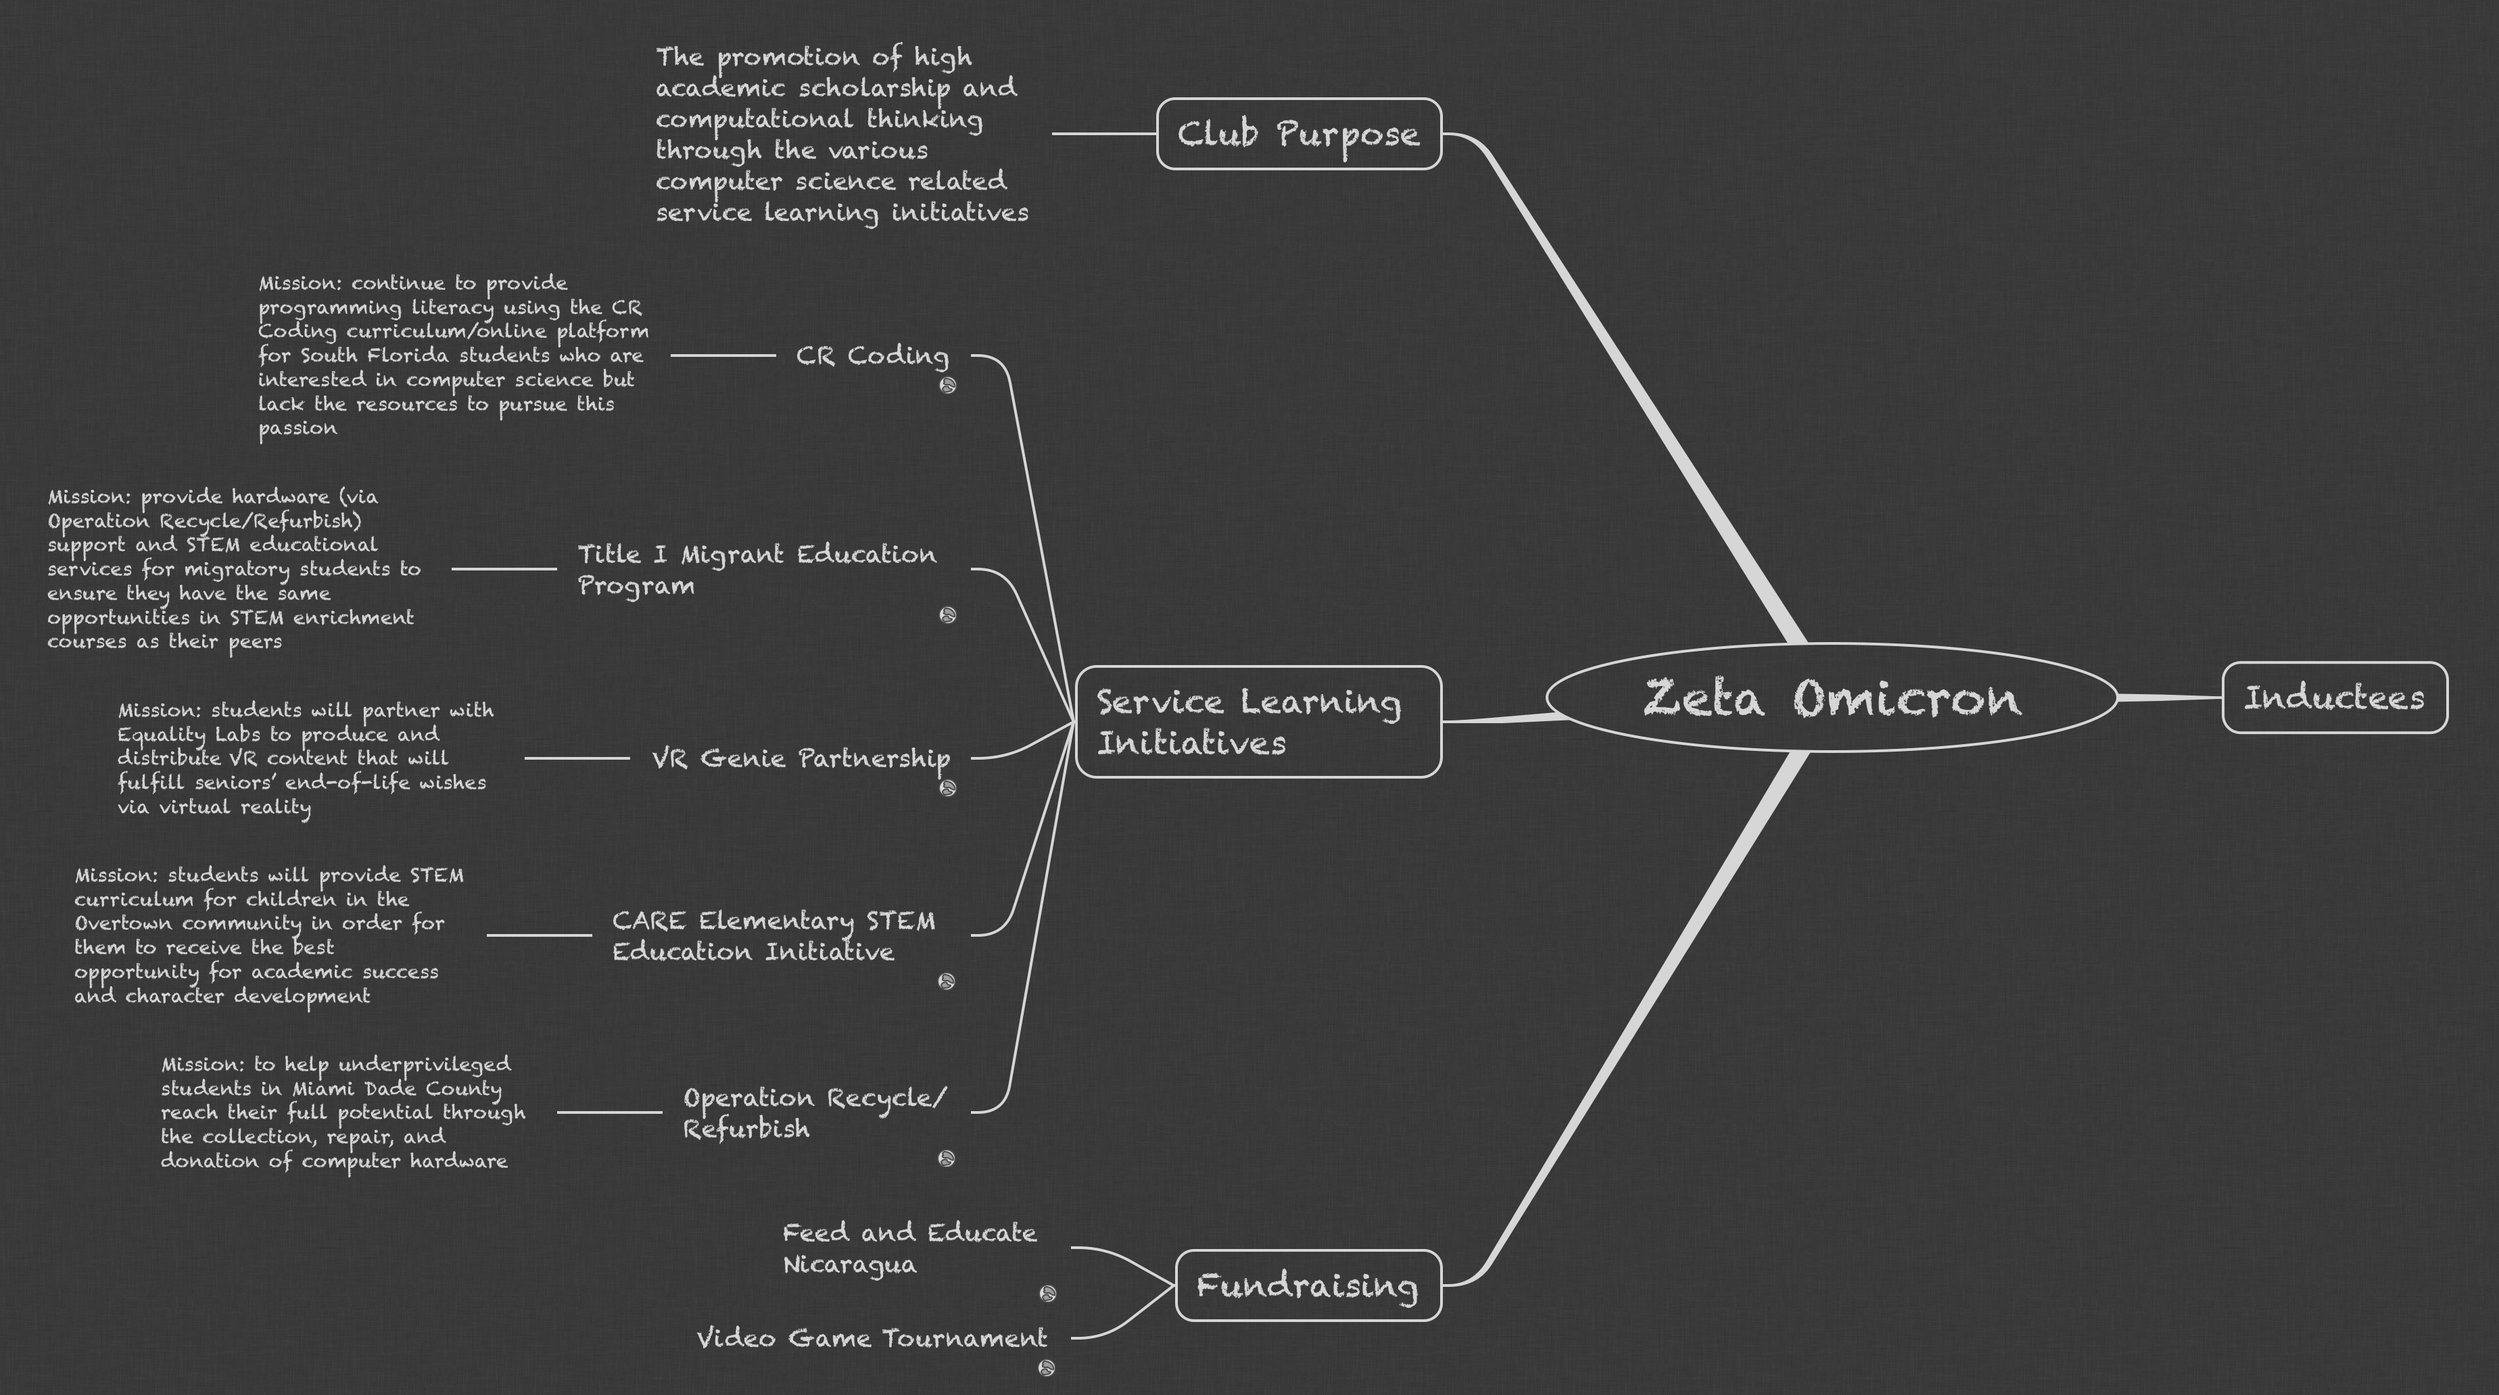
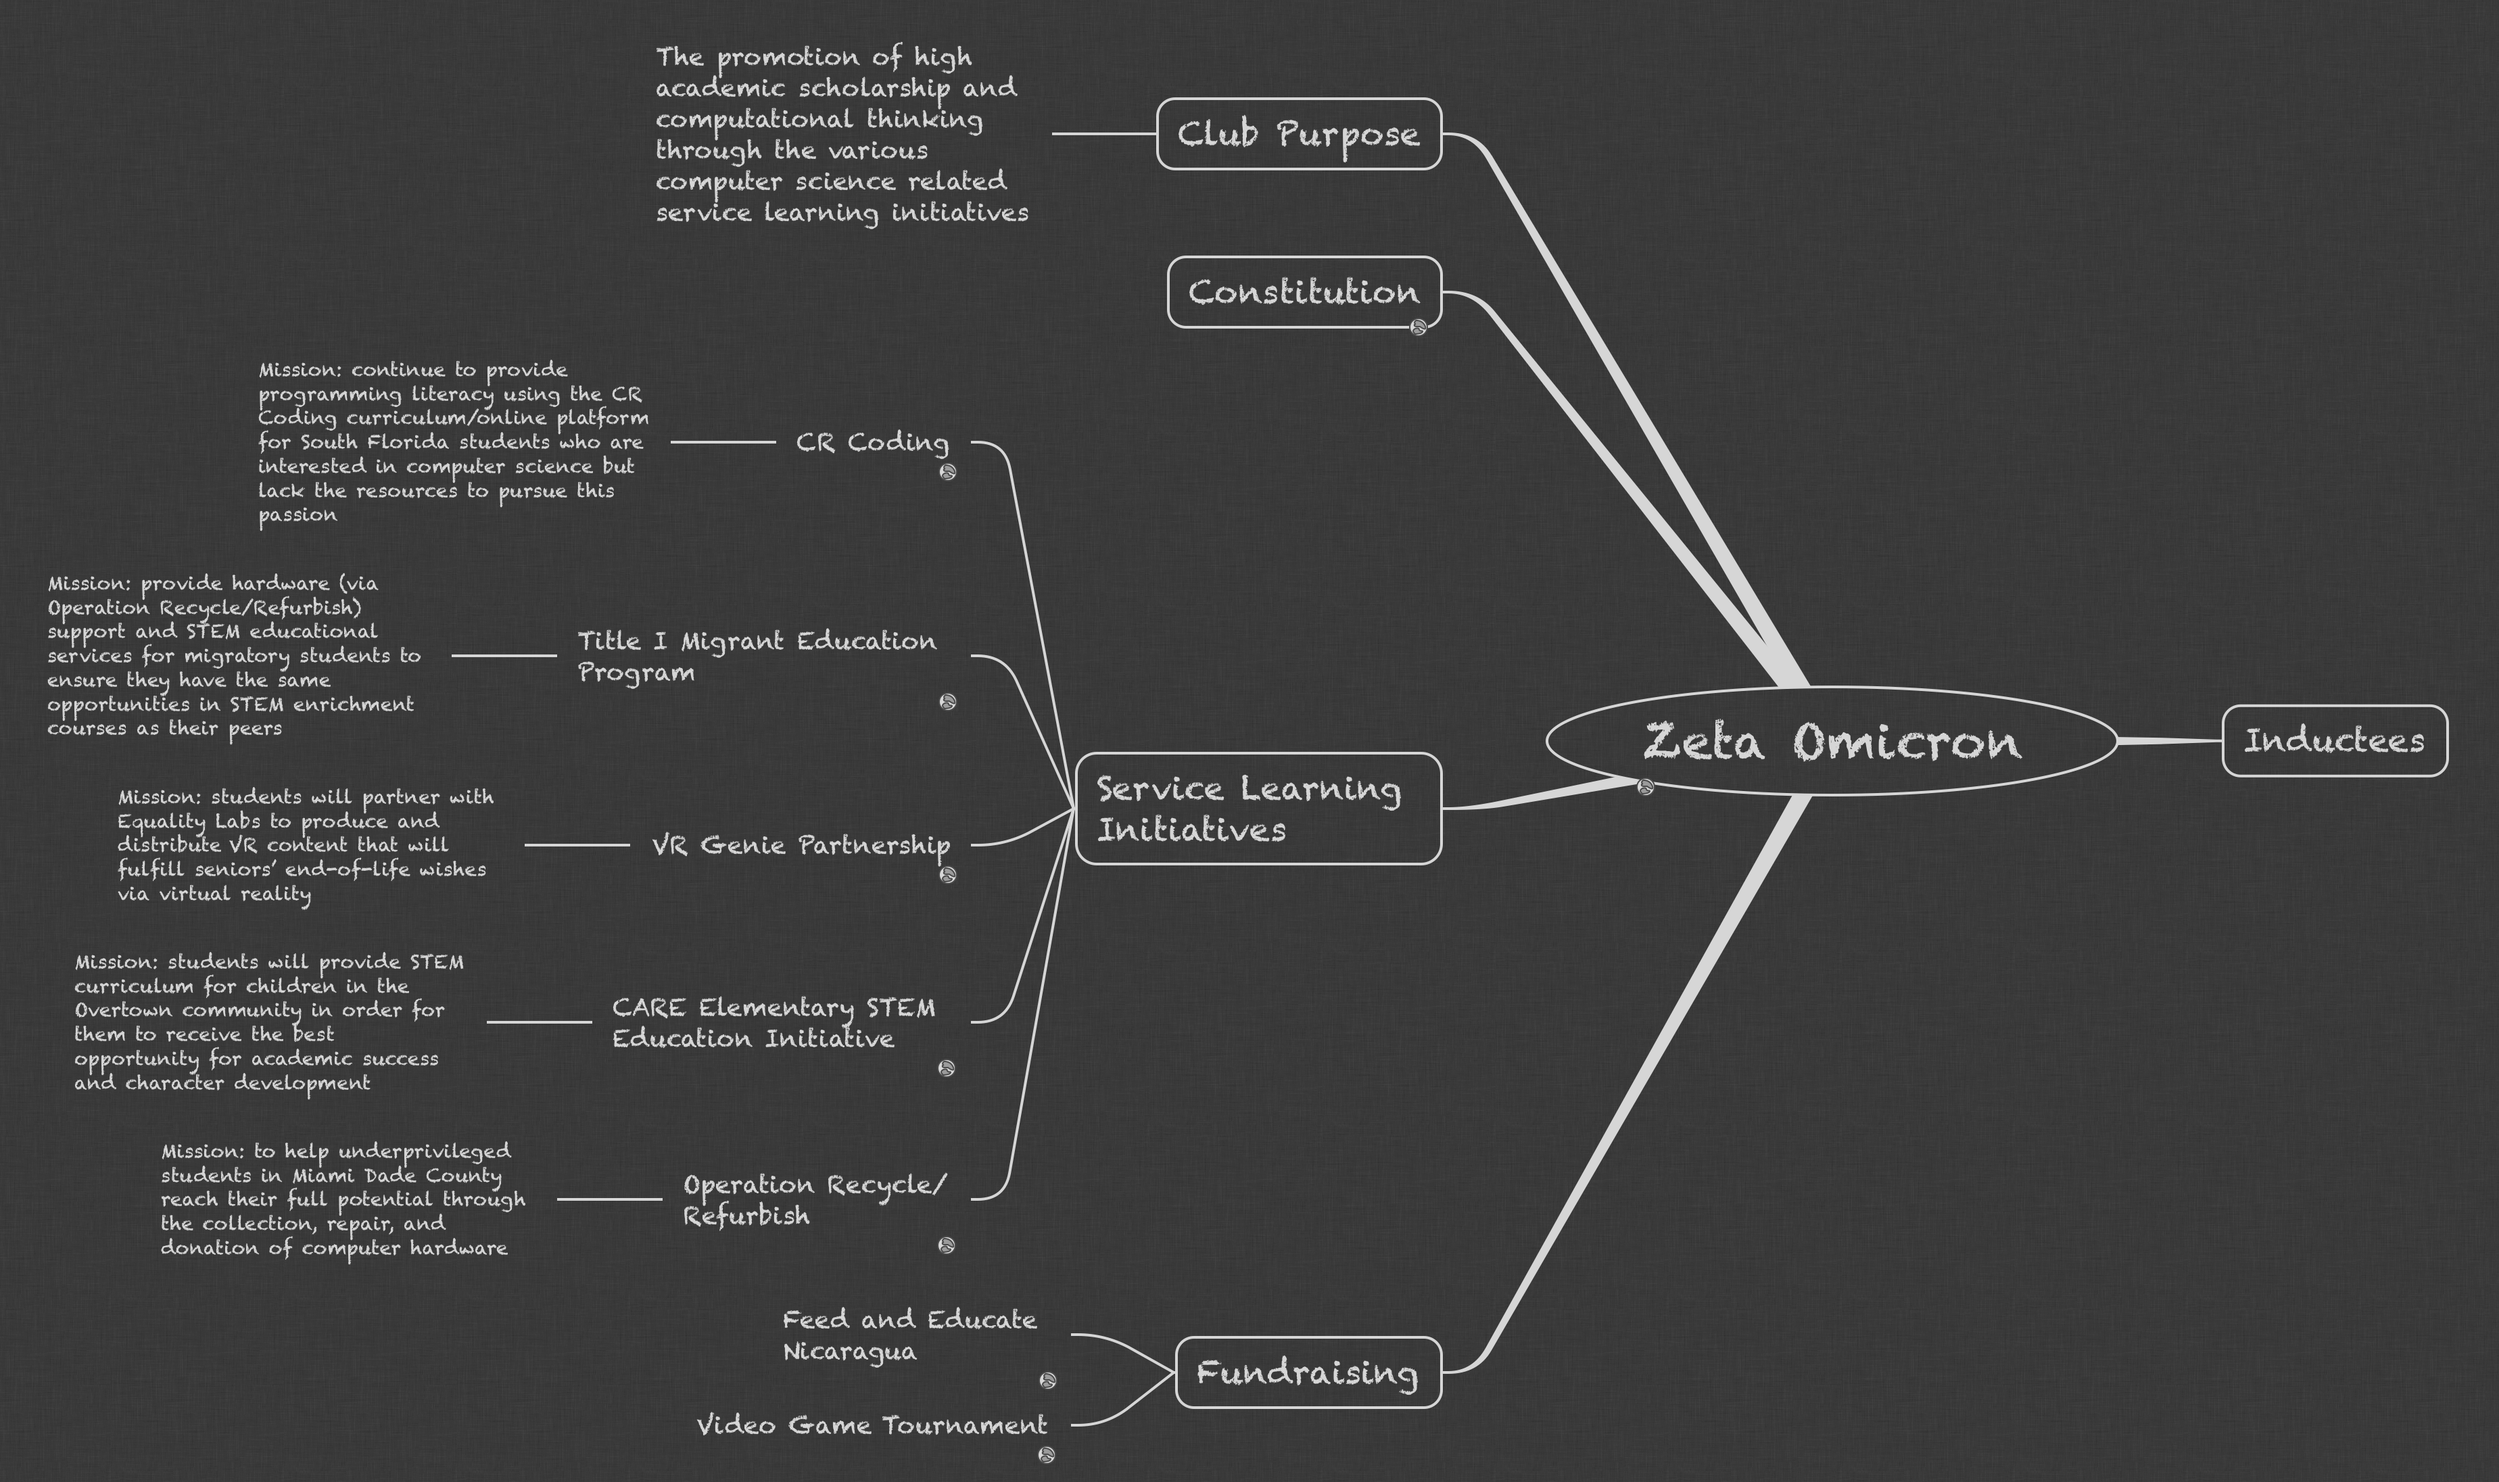
Add files via upload

diff --git a/Zeta Omicron-c0965f171b67db519f04058bac0b8e16.html b/Zeta Omicron-c0965f171b67db519f04058bac0b8e16.html
@@ -45,15 +45,17 @@ rect:hover {
 
 <body>
 
-<div class="container"><div class="spacer">&nbsp;</div><div class="svg-container"><svg version="1.1"  preserveAspectRatio="xMinYMin meet" class="svg-content" viewBox="0 0 3696 2064" xmlns="http://www.w3.org/2000/svg" xmlns:xlink="http://www.w3.org/1999/xlink">
-<image width="3696" height="2064" xlink:href="Zeta%20Omicron-c0965f171b67db519f04058bac0b8e16-assets/Zeta%20Omicron-c0965f171b67db519f04058bac0b8e16.png"></image>
-<a xlink:href="http://crcoding.org/" xlink:title="http://crcoding.org/"><rect x="1388" y="556" width="28" height="28"/></a>
-<a xlink:href="https://twitter.com/GulliverSchools/status/1144356740403781633?s=20" xlink:title="https://twitter.com/GulliverSchools/status/1144356740403781633?s=20"><rect x="1388" y="896" width="28" height="28"/></a>
-<a xlink:href="https://twitter.com/deanmorell/status/1155206758979297281?s=20" xlink:title="https://twitter.com/deanmorell/status/1155206758979297281?s=20"><rect x="1388" y="1152" width="28" height="28"/></a>
-<a xlink:href="https://twitter.com/deanmorell/status/1141456162812059655?s=20" xlink:title="https://twitter.com/deanmorell/status/1141456162812059655?s=20"><rect x="1386" y="1438" width="28" height="28"/></a>
-<a xlink:href="https://photos.app.goo.gl/uhPhSoH4KFvnLj8XA" xlink:title="https://photos.app.goo.gl/uhPhSoH4KFvnLj8XA"><rect x="1386" y="1700" width="28" height="28"/></a>
-<a xlink:href="https://photos.app.goo.gl/Jv5dKRenRS8PsCVZ7" xlink:title="https://photos.app.goo.gl/Jv5dKRenRS8PsCVZ7"><rect x="1536" y="1900" width="28" height="28"/></a>
-<a xlink:href="https://photos.app.goo.gl/2dGiJvRtQywgekYJ9" xlink:title="https://photos.app.goo.gl/2dGiJvRtQywgekYJ9"><rect x="1534" y="2010" width="28" height="28"/></a>
+<div class="container"><div class="spacer">&nbsp;</div><div class="svg-container"><svg version="1.1"  preserveAspectRatio="xMinYMin meet" class="svg-content" viewBox="0 0 3696 2192" xmlns="http://www.w3.org/2000/svg" xmlns:xlink="http://www.w3.org/1999/xlink">
+<image width="3696" height="2192" xlink:href="Zeta%20Omicron-c0965f171b67db519f04058bac0b8e16-assets/Zeta%20Omicron-c0965f171b67db519f04058bac0b8e16.png"></image>
+<a xlink:href="https://bit.ly/zetaomicronflbetalogo" xlink:title="https://bit.ly/zetaomicronflbetalogo"><rect x="2420" y="1150" width="28" height="28"/></a>
+<a xlink:href="https://photos.app.goo.gl/Jv5dKRenRS8PsCVZ7" xlink:title="https://photos.app.goo.gl/Jv5dKRenRS8PsCVZ7"><rect x="1536" y="2028" width="28" height="28"/></a>
+<a xlink:href="https://photos.app.goo.gl/2dGiJvRtQywgekYJ9" xlink:title="https://photos.app.goo.gl/2dGiJvRtQywgekYJ9"><rect x="1534" y="2138" width="28" height="28"/></a>
+<a xlink:href="http://crcoding.org/" xlink:title="http://crcoding.org/"><rect x="1388" y="684" width="28" height="28"/></a>
+<a xlink:href="https://twitter.com/GulliverSchools/status/1144356740403781633?s=20" xlink:title="https://twitter.com/GulliverSchools/status/1144356740403781633?s=20"><rect x="1388" y="1024" width="28" height="28"/></a>
+<a xlink:href="https://twitter.com/deanmorell/status/1155206758979297281?s=20" xlink:title="https://twitter.com/deanmorell/status/1155206758979297281?s=20"><rect x="1388" y="1280" width="28" height="28"/></a>
+<a xlink:href="https://twitter.com/deanmorell/status/1141456162812059655?s=20" xlink:title="https://twitter.com/deanmorell/status/1141456162812059655?s=20"><rect x="1386" y="1566" width="28" height="28"/></a>
+<a xlink:href="https://photos.app.goo.gl/uhPhSoH4KFvnLj8XA" xlink:title="https://photos.app.goo.gl/uhPhSoH4KFvnLj8XA"><rect x="1386" y="1828" width="28" height="28"/></a>
+<a xlink:href="https://bit.ly/zetaomicronflbetaconstitution" xlink:title="https://bit.ly/zetaomicronflbetaconstitution"><rect x="2084" y="470" width="28" height="28"/></a>
 </svg>
 </div>
 </div>
@@ -62,6 +64,7 @@ rect:hover {
 <a href="javascript:showhide('outlineDiv')">Outline show/hide</a>
 <div id="outlineDiv" style="display:none;">
 <h1>Zeta Omicron</h1>
+<p>Link: <a href="https://bit.ly/zetaomicronflbetalogo">bit.ly/zetaomicronflbetalogo</a></p>
 <h2>Inductees</h2>
 <ul>
 <li>Alejandro Antorcha</li>
@@ -138,6 +141,8 @@ Link: <a href="https://photos.app.goo.gl/uhPhSoH4KFvnLj8XA">photos.app.goo.gl/uh
 </ul>
 </li>
 </ul>
+<h2>Constitution</h2>
+<p>Link: <a href="https://bit.ly/zetaomicronflbetaconstitution">bit.ly/zetaomicronflbetaconstitution</a></p>
 <h2>Club Purpose</h2>
 <ul>
 <li>The promotion of high academic scholarship and computational thinking through the various computer science related service learning initiatives</li>
